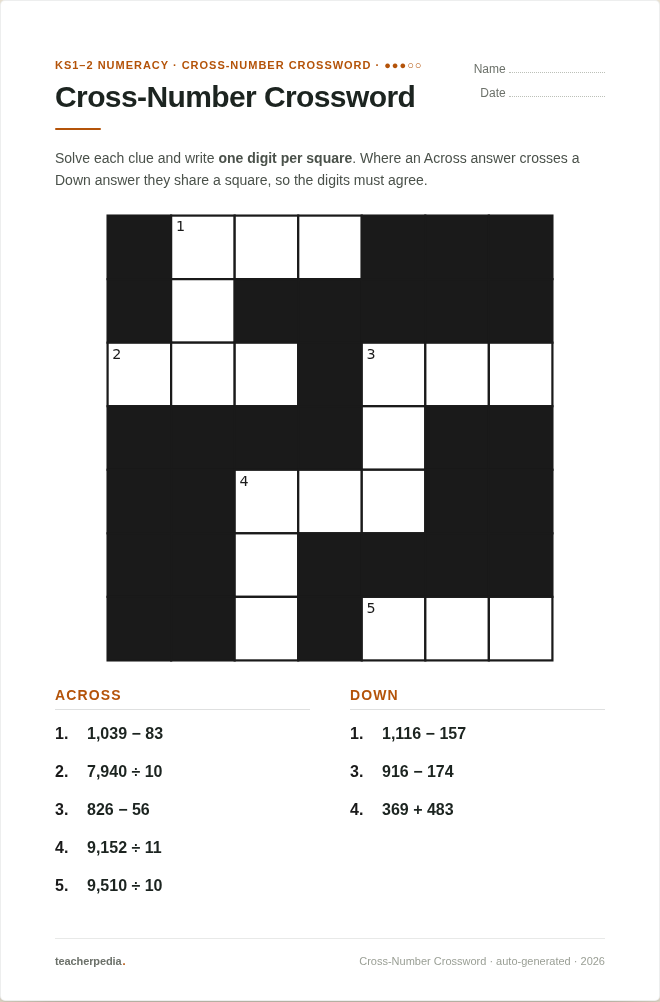
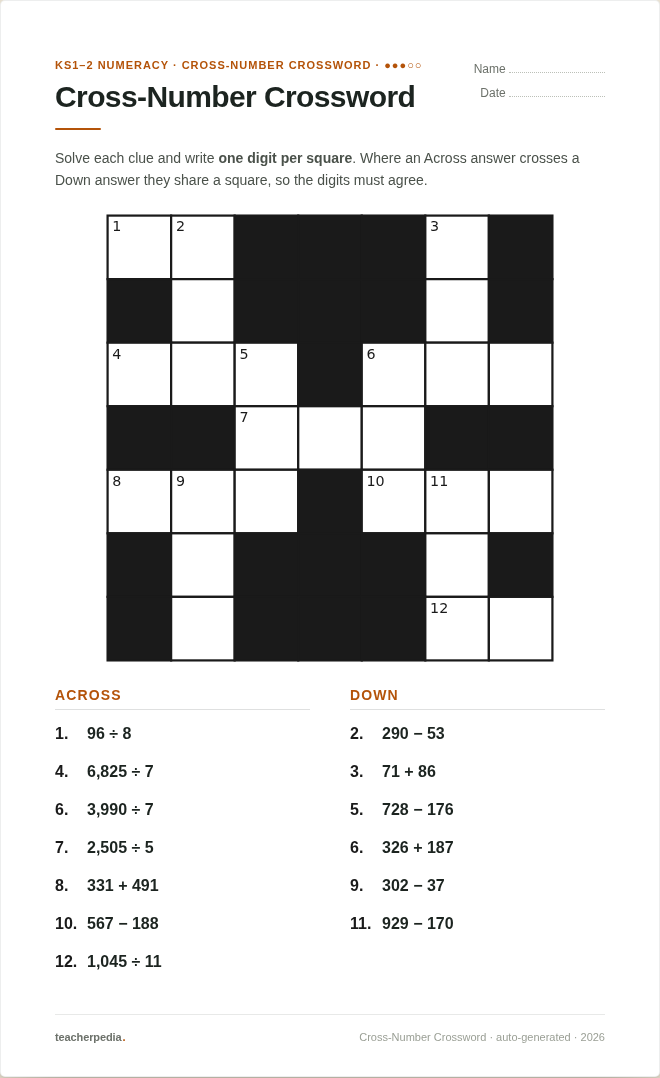
Cross-Number: denser grids — 6 Across + 6 Down, many crossings
Per feedback (more clues, more crossing numbers). Switched skeletons from
hand-listed entries to ASCII grid MASKS with entries derived as maximal runs —
this guarantees a well-formed crossword (no ambiguous adjacent runs) and makes
dense grids easy. New masks were found by a validated search: 6 Across + 6-7
Down, ~12-18 crossings, runs in each tier's digit range, fully connected, every
entry crossing a perpendicular one; 3 shapes per tier for variety.

Result: ~12-13 clues and ~14 crossings per puzzle (was ~7 clues, ~6 crossings).

Verified: bespoke validator PASS (600 puzzles, 3 skeletons/band); independent
re-check over 14,800 entries — every clue evaluates to its entry value,
intersections agree, no leading zeros — 0 failures; one A4 page at every tier on
both worksheet and answer-key tabs. Feature image refreshed.

Claude-Session: https://claude.ai/code/session_01DAwZPbqNSrmfJge6t7jxHG

diff --git a/public_html/assets/js/cross-number.js b/public_html/assets/js/cross-number.js
@@ -40,111 +40,120 @@
   }
 
   // ---- fixed grid skeletons -------------------------------------------------
-  // Each skeleton declares its size and a list of entries
-  //   { dir:'A'|'D', r, c, len }
-  // White cells and crossword numbering are derived deterministically from the
-  // entries below (a cell is numbered if it starts an Across and/or a Down).
-  // tier: 'below' | 'meeting' | 'exceeding'.
+  // Each skeleton is an ASCII grid MASK keyed by tier (below|meeting|exceeding).
+  // Entries (Across/Down) and crossword numbering are DERIVED from the mask, so
+  // every grid is a well-formed, dense crossword (6 Across + 6+ Down, many
+  // crossings). The masks were found by a validated search (6/6 entries, runs in
+  // the tier's digit range, fully connected, every entry crossing). See
+  // dev/RESOURCE_WORKFLOW.md.
+  // Derive crossword entries from an ASCII grid mask ('.'=white, '#'=black):
+  // each entry is a maximal run of >=2 white cells (bounded by a black cell or
+  // the edge), so the grid is ALWAYS a well-formed crossword and dense 6-across/
+  // 6-down grids are easy to draw. See dev/RESOURCE_WORKFLOW.md.
+  function entriesFromGrid(grid) {
+    var R = grid.length, C = grid[0].length;
+    function w(r, c) { return r >= 0 && r < R && c >= 0 && c < C && grid[r].charAt(c) !== '#'; }
+    var es = [];
+    for (var r = 0; r < R; r++) {
+      for (var c = 0; c < C; c++) {
+        if (!w(r, c)) { continue; }
+        if (!w(r, c - 1) && w(r, c + 1)) { var la = 0; while (w(r, c + la)) { la++; } es.push({ dir: 'A', r: r, c: c, len: la }); }
+        if (!w(r - 1, c) && w(r + 1, c)) { var ld = 0; while (w(r + ld, c)) { ld++; } es.push({ dir: 'D', r: r, c: c, len: ld }); }
+      }
+    }
+    return es;
+  }
+
   var SKELETONS = [
-    // ---- BELOW: 5x5, MOSTLY 2-digit entries, few crossings ----------------
-    // Each grid is majority 2-digit (per the brief) with a couple of 3-digit
-    // anchors; every entry crosses at least one entry of the other direction.
-    { id: 'b1', tier: 'below', rows: 5, cols: 5, entries: [
-      { dir: 'A', r: 0, c: 0, len: 2 },
-      { dir: 'A', r: 0, c: 2, len: 2 },
-      { dir: 'A', r: 2, c: 0, len: 3 },
-      { dir: 'A', r: 4, c: 1, len: 2 },
-      { dir: 'D', r: 0, c: 0, len: 2 },
-      { dir: 'D', r: 0, c: 2, len: 3 },
-      { dir: 'D', r: 2, c: 1, len: 3 }
+    { id: 'b1', tier: 'below', grid: [
+      '###...',
+      '#...#.',
+      '#.#..#',
+      '#..#.#',
+      '.#...#',
+      '...###'
     ] },
-    { id: 'b2', tier: 'below', rows: 5, cols: 5, entries: [
-      { dir: 'A', r: 0, c: 0, len: 2 },
-      { dir: 'A', r: 2, c: 1, len: 2 },
-      { dir: 'A', r: 3, c: 2, len: 3 },
-      { dir: 'A', r: 4, c: 3, len: 2 },
-      { dir: 'D', r: 0, c: 1, len: 3 },
-      { dir: 'D', r: 2, c: 2, len: 2 },
-      { dir: 'D', r: 3, c: 4, len: 2 }
+    { id: 'b2', tier: 'below', grid: [
+      '...##.',
+      '#.#...',
+      '#...#.',
+      '.#...#',
+      '...#.#',
+      '.##...'
     ] },
-    { id: 'b3', tier: 'below', rows: 5, cols: 5, entries: [
-      { dir: 'A', r: 0, c: 0, len: 3 },
-      { dir: 'A', r: 1, c: 0, len: 2 },
-      { dir: 'A', r: 2, c: 2, len: 2 },
-      { dir: 'A', r: 4, c: 2, len: 2 },
-      { dir: 'D', r: 0, c: 0, len: 2 },
-      { dir: 'D', r: 0, c: 2, len: 3 },
-      { dir: 'D', r: 2, c: 3, len: 3 }
+    { id: 'b3', tier: 'below', grid: [
+      '#.#...',
+      '#..#.#',
+      '##...#',
+      '#...##',
+      '#.#..#',
+      '...#.#'
     ] },
-
-    // ---- MEETING: 6x6 / 7x7, 3-digit, several crossings -------------------
-    { id: 'm1', tier: 'meeting', rows: 6, cols: 6, entries: [
-      { dir: 'A', r: 0, c: 0, len: 3 },
-      { dir: 'A', r: 2, c: 0, len: 3 },
-      { dir: 'A', r: 2, c: 4, len: 2 },
-      { dir: 'A', r: 4, c: 1, len: 3 },
-      { dir: 'D', r: 0, c: 0, len: 3 },
-      { dir: 'D', r: 0, c: 2, len: 3 },
-      { dir: 'D', r: 2, c: 4, len: 3 }
+    { id: 'm1', tier: 'meeting', grid: [
+      '..###.#',
+      '#.###.#',
+      '...#...',
+      '##...##',
+      '...#...',
+      '#.###.#',
+      '#.###..'
     ] },
-    { id: 'm2', tier: 'meeting', rows: 7, cols: 7, entries: [
-      { dir: 'A', r: 0, c: 1, len: 3 },
-      { dir: 'A', r: 2, c: 0, len: 3 },
-      { dir: 'A', r: 2, c: 4, len: 3 },
-      { dir: 'A', r: 4, c: 2, len: 3 },
-      { dir: 'A', r: 6, c: 4, len: 3 },
-      { dir: 'D', r: 0, c: 1, len: 3 },
-      { dir: 'D', r: 2, c: 4, len: 3 },
-      { dir: 'D', r: 4, c: 2, len: 3 }
+    { id: 'm2', tier: 'meeting', grid: [
+      '...###.',
+      '##.#...',
+      '##...##',
+      '###.###',
+      '##...##',
+      '...#.##',
+      '.###...'
     ] },
-    { id: 'm3', tier: 'meeting', rows: 6, cols: 6, entries: [
-      { dir: 'A', r: 0, c: 0, len: 3 },
-      { dir: 'A', r: 2, c: 2, len: 3 },
-      { dir: 'A', r: 4, c: 0, len: 3 },
-      { dir: 'A', r: 4, c: 4, len: 2 },
-      { dir: 'D', r: 0, c: 0, len: 3 },
-      { dir: 'D', r: 0, c: 2, len: 3 },
-      { dir: 'D', r: 2, c: 4, len: 3 }
+    { id: 'm3', tier: 'meeting', grid: [
+      '..#####',
+      '...####',
+      '...####',
+      '##...##',
+      '####...',
+      '####...',
+      '#####..'
     ] },
-
-    // ---- EXCEEDING: 8x8, 4-digit, many crossings --------------------------
-    { id: 'e1', tier: 'exceeding', rows: 8, cols: 8, entries: [
-      { dir: 'A', r: 0, c: 0, len: 4 },
-      { dir: 'A', r: 2, c: 0, len: 4 },
-      { dir: 'A', r: 2, c: 5, len: 3 },
-      { dir: 'A', r: 4, c: 1, len: 4 },
-      { dir: 'A', r: 6, c: 0, len: 4 },
-      { dir: 'D', r: 0, c: 0, len: 3 },
-      { dir: 'D', r: 0, c: 2, len: 3 },
-      { dir: 'D', r: 4, c: 1, len: 3 },
-      { dir: 'D', r: 4, c: 3, len: 3 },
-      { dir: 'D', r: 2, c: 5, len: 3 }
+    { id: 'e1', tier: 'exceeding', grid: [
+      '##.#####',
+      '...#.###',
+      '#....###',
+      '#.##....',
+      '....##.#',
+      '###....#',
+      '###.#...',
+      '#####.##'
     ] },
-    { id: 'e2', tier: 'exceeding', rows: 8, cols: 8, entries: [
-      { dir: 'A', r: 0, c: 1, len: 4 },
-      { dir: 'A', r: 2, c: 0, len: 4 },
-      { dir: 'A', r: 2, c: 5, len: 3 },
-      { dir: 'A', r: 4, c: 2, len: 4 },
-      { dir: 'A', r: 6, c: 1, len: 4 },
-      { dir: 'D', r: 0, c: 1, len: 3 },
-      { dir: 'D', r: 0, c: 3, len: 3 },
-      { dir: 'D', r: 4, c: 2, len: 3 },
-      { dir: 'D', r: 4, c: 5, len: 3 },
-      { dir: 'D', r: 2, c: 0, len: 3 }
+    { id: 'e2', tier: 'exceeding', grid: [
+      '.#######',
+      '.##...##',
+      '....####',
+      '.#....##',
+      '##....#.',
+      '####....',
+      '##...##.',
+      '#######.'
     ] },
-    { id: 'e3', tier: 'exceeding', rows: 8, cols: 8, entries: [
-      { dir: 'A', r: 0, c: 0, len: 4 },
-      { dir: 'A', r: 2, c: 1, len: 4 },
-      { dir: 'A', r: 4, c: 0, len: 4 },
-      { dir: 'A', r: 4, c: 5, len: 3 },
-      { dir: 'A', r: 6, c: 2, len: 4 },
-      { dir: 'D', r: 0, c: 0, len: 3 },
-      { dir: 'D', r: 0, c: 3, len: 3 },
-      { dir: 'D', r: 2, c: 1, len: 3 },
-      { dir: 'D', r: 4, c: 5, len: 3 },
-      { dir: 'D', r: 4, c: 6, len: 3 }
-    ] }
+    { id: 'e3', tier: 'exceeding', grid: [
+      '####...#',
+      '####.###',
+      '.#....##',
+      '.#.#....',
+      '....#.#.',
+      '##....#.',
+      '###.####',
+      '#...####'
+    ] },
   ];
+  // Derive rows/cols/entries from each grid mask once at load.
+  for (var _si = 0; _si < SKELETONS.length; _si++) {
+    var _sk = SKELETONS[_si];
+    _sk.rows = _sk.grid.length;
+    _sk.cols = _sk.grid[0].length;
+    _sk.entries = entriesFromGrid(_sk.grid);
+  }
 
   // Derive white cells + crossword numbering for a skeleton. Returns a fresh
   // model: { rows, cols, white(set), starts(map key->number), entries(numbered) }.
